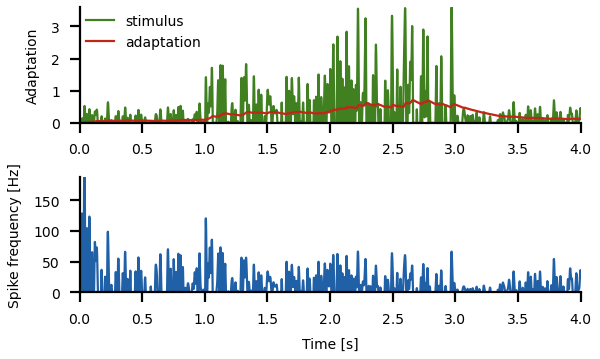
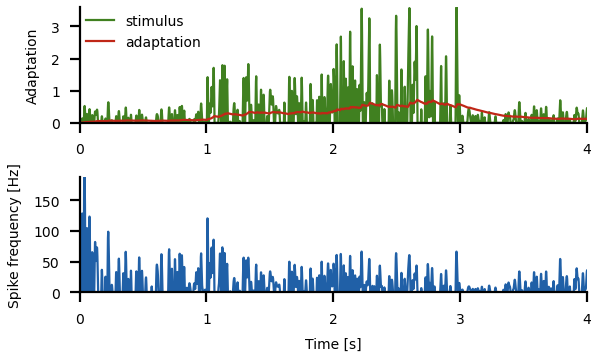
[meanvariance] mean and variance fixes

diff --git a/meanvariance/meanvarianceplots.py b/meanvariance/meanvarianceplots.py
@@ -171,6 +171,7 @@ def plot_amplitudemodulation():
     ax = axs[0]
     ax.plot(time, stimulus, label='stimulus')
     ax.plot(time, am, label='AM')
+    ax.xaxis.set_major_locator(ticker.MultipleLocator(1.0))
     ax.set_xlabel('Time')
     ax.set_ylabel('Stimulus')
     ax.legend(loc='upper right', bbox_to_anchor=(1.0, 1.2))
@@ -251,12 +252,14 @@ def plot_divisiveadapt():
     ax = axs[0]
     ax.plot(time, stimulus, color=colors['green'], label='stimulus')
     ax.plot(time, adapt, color=colors['red'], label='adaptation')
+    ax.xaxis.set_major_locator(ticker.MultipleLocator(1.0))
     ax.set_ylabel('Adaptation')
     ax.legend(loc='upper left')
     ax = axs[1]
     ax.plot(time, rate, color=colors['blue'], label='adapting')
     ax.set_xlabel('Time [s]')
     ax.set_ylabel('Spike frequency [Hz]')
+    ax.xaxis.set_major_locator(ticker.MultipleLocator(1.0))
     fig.savefig('meanvariance-divisiveadapt')
     
 
@@ -265,7 +268,7 @@ def plot_meanvaradapt():
     tmax = 4.0                    # stimulus duration in seconds
     cutoff = 60.0                 # cutoff frequency of stimulus in Hertz
     T = 1.0                       # duration of segements with constant mean in seconds
-    means = [0.0, 4.0, 6.0, 2.0]  # mean stimulus values for each segment
+    means = [1.0, 3.0, 6.0, 2.0]  # mean stimulus values for each segment
     stdevs = [1.0, 3.0, 1.5, 0.5] # standard deviations for each segment
     rng = np.random.RandomState(583)
     stimulus = 0.5*mv.whitenoise(0.0, cutoff, dt, tmax, rng)
@@ -287,10 +290,12 @@ def plot_meanvaradapt():
     ax = axs[0]
     ax.plot(time, stimulus, color=colors['green'], label='stimulus')
     ax.set_ylabel('Stimulus')
+    ax.xaxis.set_major_locator(ticker.MultipleLocator(1.0))
     ax = axs[1]
     ax.plot(time, rate2, color=colors['blue'], label='adapting')
     ax.set_xlabel('Time [s]')
     ax.set_ylabel('Spike frequency [Hz]')
+    ax.xaxis.set_major_locator(ticker.MultipleLocator(1.0))
     fig.savefig('meanvariance-meanvaradapt')
     
         

diff --git a/meanvariance/README.md b/meanvariance/README.md
@@ -270,12 +270,14 @@ variance, except for the transients right after the steps.
 ![divisiveadapt](meanvariance-divisiveadapt.png)
 
 
-## Adaptation to the mean and the variance
+## Adaptation to mean and variance
 
 A stimulus with segments that differ in mean and variance can be
 generated like this:
 
 ``` py
+means = [1.0, 4.0, 6.0, 2.0]  # mean stimulus values for each segment
+stdevs = [1.0, 3.0, 1.5, 0.5] # standard deviations for each segment
 stimulus = 0.5*mv.whitenoise(0.0, cutoff, dt, tmax, rng)
 time = np.arange(len(stimulus))*dt
 mean = np.zeros(len(stimulus))
